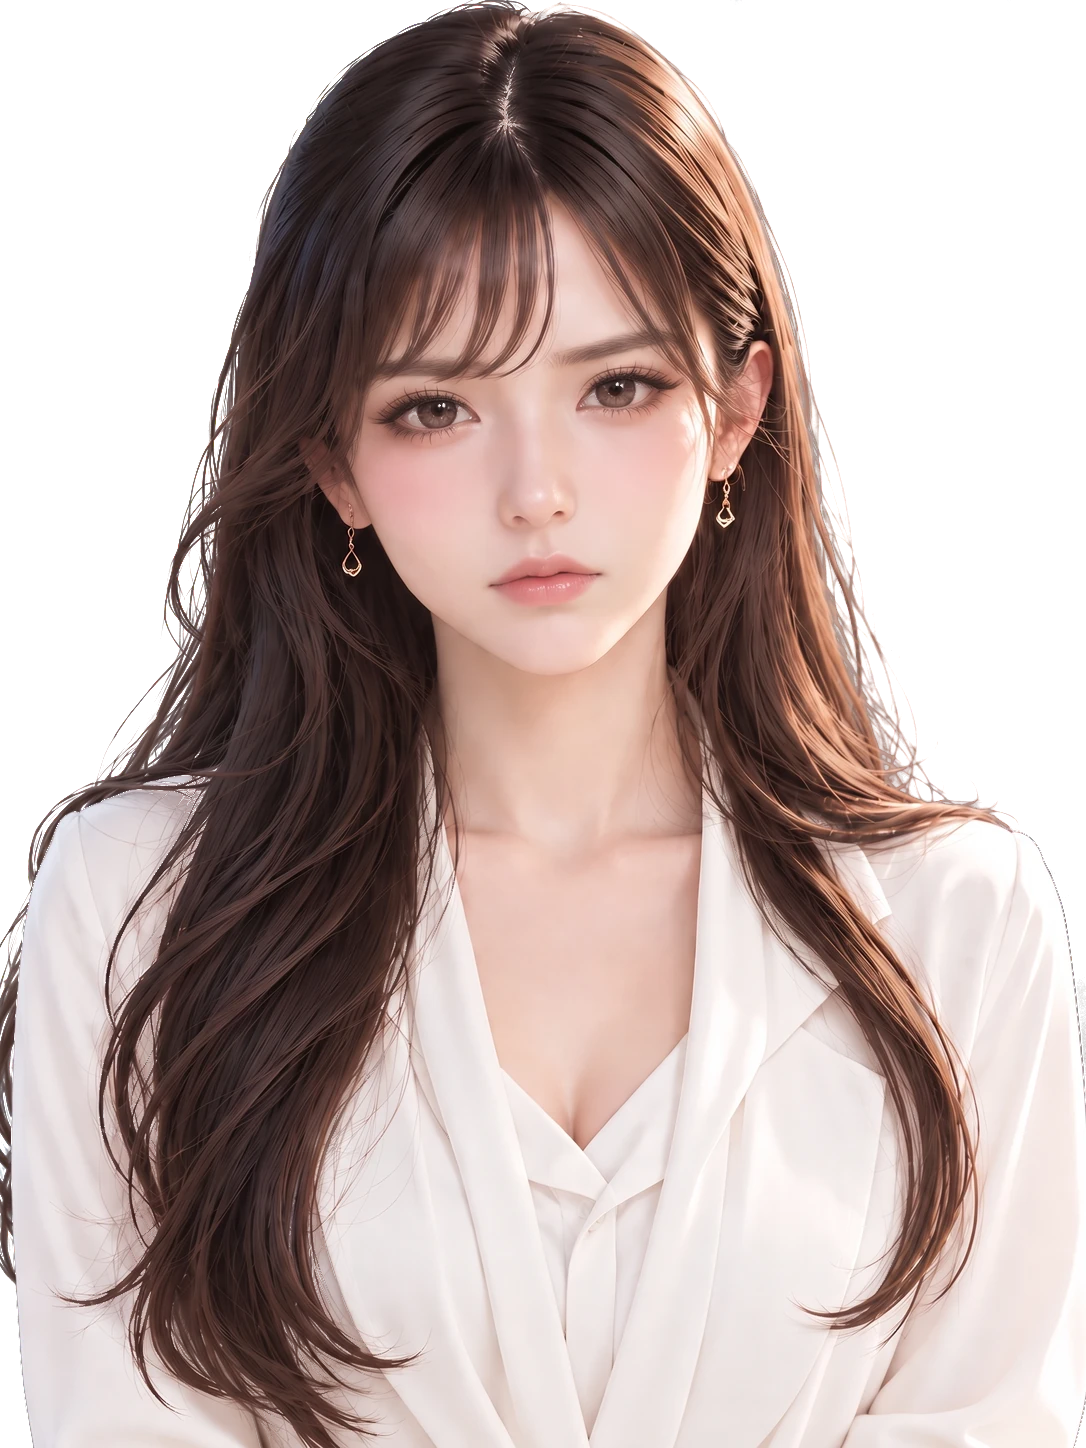
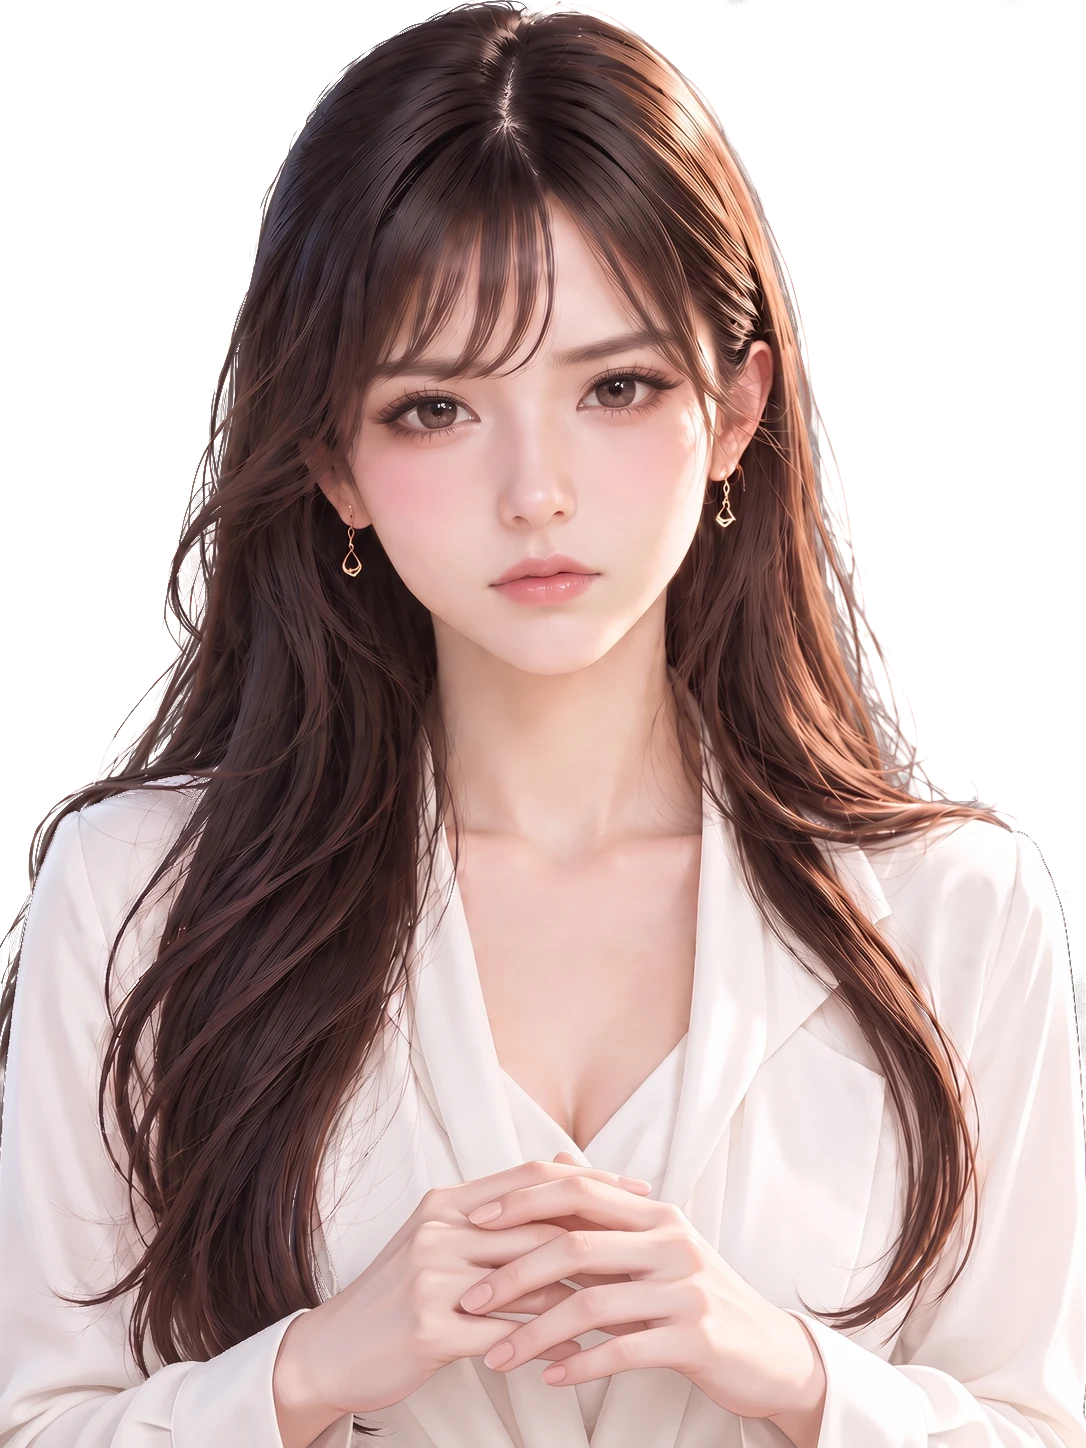
5表情にポーズを入れる
棒立ちをやめる。serious は両手を体の前で組む、annoyed は腕を組む、thinking は
指先をあごに、challenge は肩から乗り出して片手を腰に、happy は両手を胸元で。
ポーズ版で表情のセットを置き換えた。

生成10回、やり直しなし。頭の位置と大きさを固定したので、マスターも瞬きも
measure_drift は全部 scale 1.00 / dx 0 / dy 0。瞬きの楕円は固定位置のまま使える。

素材一覧が serious と annoyed の両方を腕組みにしていた。区別を付けるための
ポーズで同じ姿勢を選んでいたので、serious を手を組む形に変えた。

立ち姿の serious と challenge にあった口の差分は、置き換えで消えた。声は
後回しにしているので今は影響しない。戻すときにポーズ版の口を3枚作る。

素材一覧の wink の記述も直した。「絵を作らない」は誤りで、合成済みフレームは
片目だけ閉じられない。出すには10枚目のマスターが要る。

diff --git a/docs/ASSET_BACKLOG.md b/docs/ASSET_BACKLOG.md
@@ -37,8 +37,9 @@ Base と Reaction に別々の絵は要りません。**同じバストアップ
 
 | 素材 | 枚数 | 状態 |
 | --- | --- | --- |
-| 表情マスター | 9 | 完了。`wink` は絵を作らない |
+| 表情マスター | 9 | 完了。`wink` は未作成（下記） |
 | 合成フレーム | 36 | 完了。9表情 × 目2 × 口2 |
+| ポーズ | 5 | 完了。serious / annoyed / thinking / challenge / happy |
 | 固定クリップ音声 | 6 | 完了。`MAYA v2` / `58d6907b` |
 | 背景プレート `work` | 1 | 完了 |
 
@@ -52,21 +53,25 @@ Base と Reaction に別々の絵は要りません。**同じバストアップ
 **4枚は生成済みですが、まだディスクにありません。**保存してもらえれば
 `tools/import_scene_plates.py` が寸法を揃えて取り込みます。
 
-### B. Reaction のポーズ 5枚
+### B. ポーズ 5枚 — 完了
 
-いまの9表情は全部同じ立ち姿勢です。**顔だけで `annoyed` と `serious` を
-区別しようとして失敗しました。**体が変われば区別が付きます。
+生成10回、やり直しなし。**ポーズ版で表情のセットを置き換えました。**`serious` を
+呼ぶと常に手を組んだ絵が出ます。
 
-| 表情 | ポーズ | 生成 |
-| --- | --- | --- |
-| `serious` | 腕を軽く組む | master + 瞬き + 口 = 3 |
-| `challenge` | 少し前のめり | master + 瞬き + 口 = 3 |
-| `thinking` | 視線を外して考える | master + 瞬き = 2 |
-| `happy` | 身体を少し寄せて笑う | master + 瞬き + 口 = 3 |
-| `annoyed` | 腕組み | master + 瞬き = 2 |
+| 表情 | ポーズ |
+| --- | --- |
+| `serious` | 背筋を伸ばし、両手を体の前で軽く組む |
+| `annoyed` | 両腕をしっかり組む |
+| `thinking` | 片腕で肘を支え、指先をあごに |
+| `challenge` | 肩から前へ乗り出し、片手を腰に |
+| `happy` | 肩を少し上げ、両手を胸元で合わせる |
 
-計13回。既存の表情マスターを親にして姿勢だけ変えるので、表情の作り込みは
-そのまま乗ります。
+当初の一覧は `serious` と `annoyed` の両方を腕組みにしていました。区別を付ける
+ためのポーズで同じ姿勢を選んでいたので、`serious` を手を組む形に変えています。
+
+**声を戻すときの宿題があります。**立ち姿の `serious` と `challenge` には口を
+開けた絵がありましたが、置き換えで消えました。声を戻すなら、ポーズ版の
+`serious` `challenge` `happy` に口の差分を1枚ずつ作ります。
 
 ### C. Scene の一枚絵 5枚
 
@@ -83,6 +88,15 @@ Base と Reaction に別々の絵は要りません。**同じバストアップ
 
 会食の1枚は試作済みです。`assets/reference/candidates/dinner-relaxed-01.png`。
 同一人物、座って前傾、平坦な灰色の背景まで確認しました。
+
+### D. `wink` 1枚
+
+**以前「`wink` は絵を作らない」と書いたのは誤りでした。**描画側が片目だけ閉じる
+想定でしたが、合成済みのフレームは目の状態を1つしか持てず、片目だけは閉じられ
+ません。いまの `wink` は `neutral` の顔で出ています。
+
+出すなら10枚目のマスターが要ります。瞬きの差分は、両目を閉じる通常の
+プロンプトがそのまま使えます。生成2回。
 
 ---
 
@@ -158,11 +172,10 @@ Base と Reaction に別々の絵は要りません。**同じバストアップ
 
 | | 回数 |
 | --- | --- |
-| B. Reaction のポーズ | 13 |
+| B. ポーズ | 完了 |
 | C. Scene の一枚絵 | 5 |
-| **計** | **18** |
+| **計** | **5** |
 
 背景プレート4枚は別途、GPTで作れます。
 
-ここまでに19回使っています。**作り直しを含めても同じ規模で収まります。**
-掛け算をやめた効果がここに出ています。
+ここまでに29回使っています。
